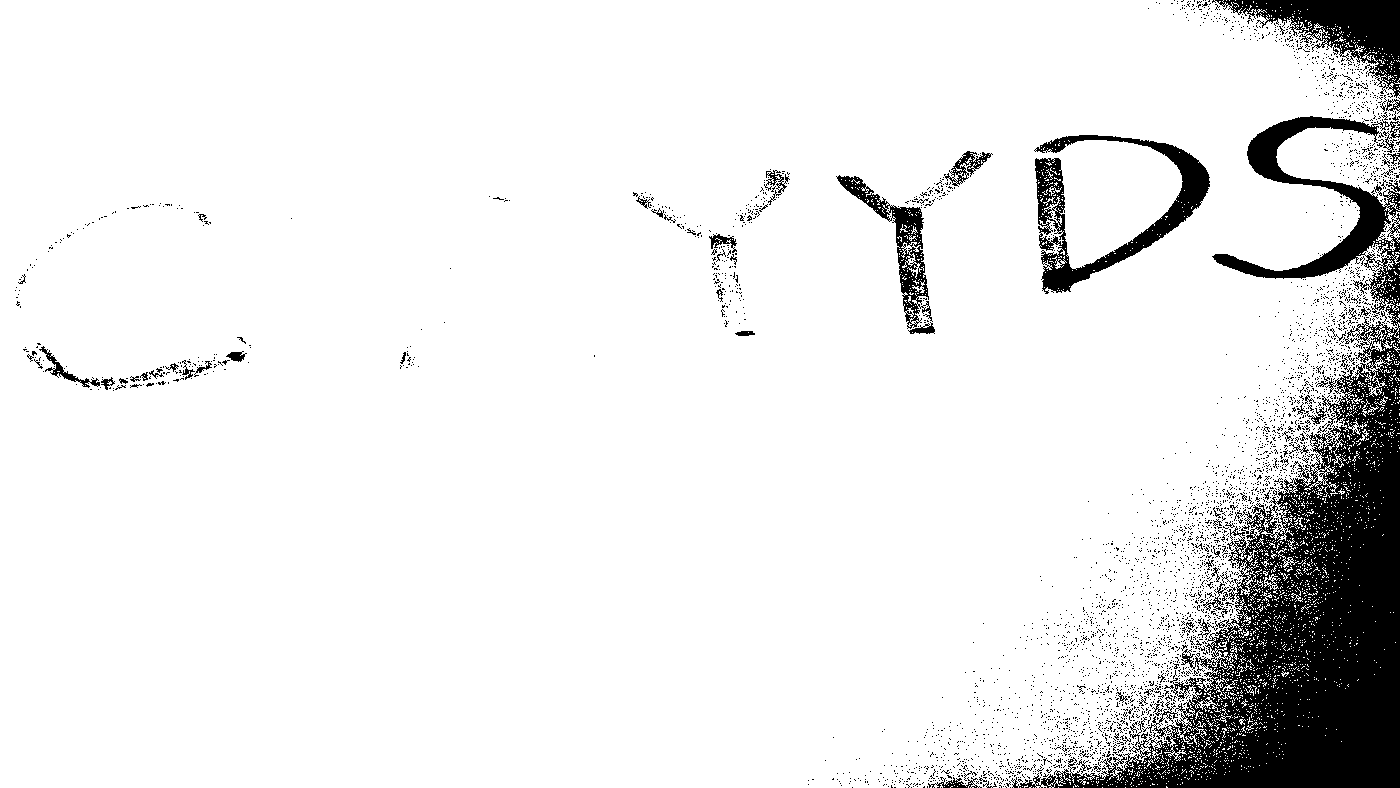
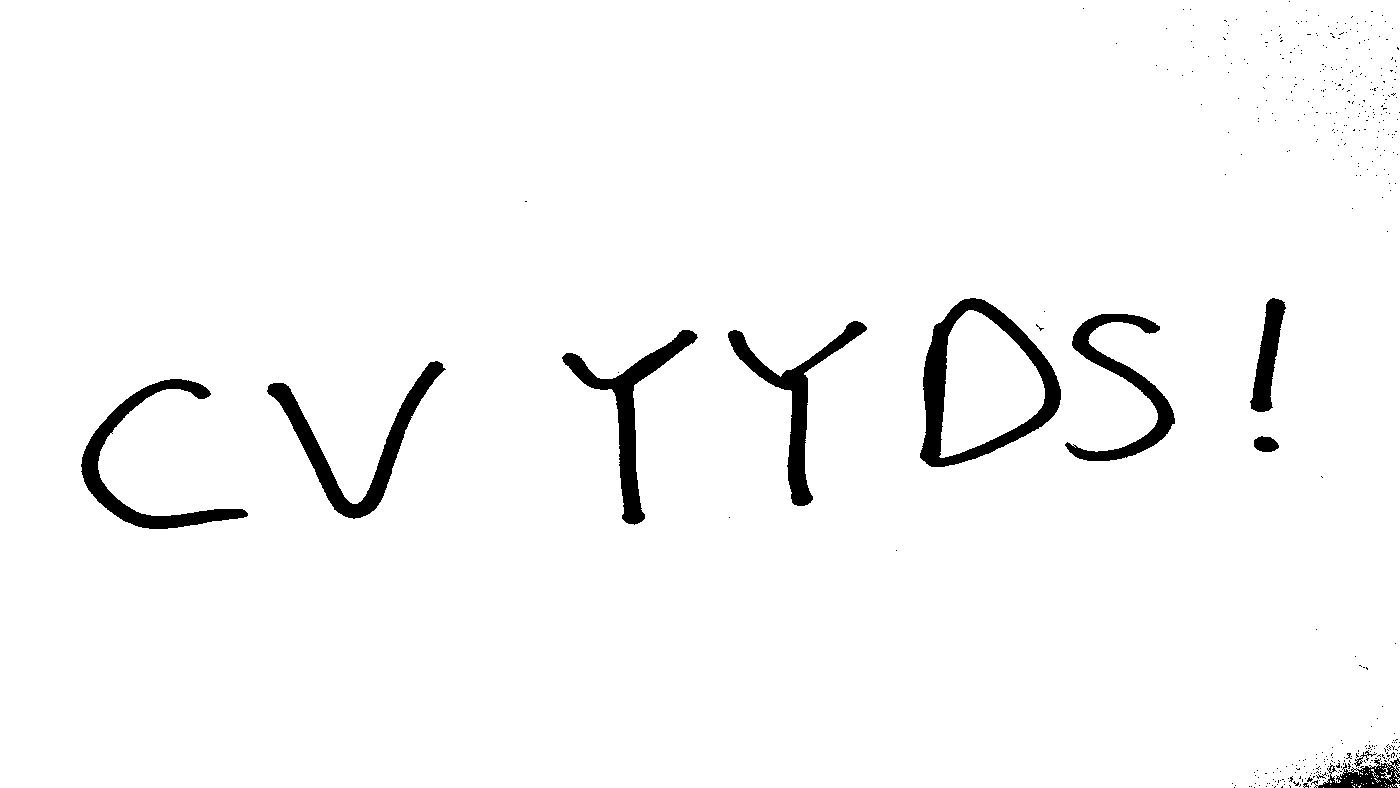
finish all questions in hw1; docs wait to be fill

diff --git a/hw1/chris/Q4.py b/hw1/chris/Q4.py
@@ -1,0 +1,40 @@
+import cv2
+import os
+
+# 将附带彩色图像（I0）的R、G、B通道中某个或某几个通道做与Q3类似的处理
+# 对R通道做处理
+
+img_I0 = cv2.imread('./imgs/I0.jpg')
+img_I2_binary = cv2.imread('./imgs/I2.png', cv2.IMREAD_GRAYSCALE)
+
+# 分割通道
+b_channel, g_channel, r_channel = cv2.split(img_I0)
+
+# 遍历R通道的每一位
+# 创建文件夹
+os.makedirs('./imgs/I0_bit_replace/R', exist_ok=True)
+for i in range(8):
+    # 获取二值图像的当前位
+    bit_i_binary = img_I2_binary & (1 << i)
+    # 将R通道的当前位替换为二值图像的当前位
+    r_channel_new = r_channel | bit_i_binary
+    # 合并
+    img_I0_new = cv2.merge([b_channel, g_channel, r_channel_new])
+    # 保存
+    cv2.imwrite(f'./imgs/I0_bit_replace/R/I0_ChannelR_L{i+1}.jpg', img_I0_new)
+
+# 对G通道做处理
+os.makedirs('./imgs/I0_bit_replace/G', exist_ok=True)
+for i in range(8):
+    bit_i_binary = img_I2_binary & (1 << i)
+    g_channel_new = g_channel | bit_i_binary
+    img_I0_new = cv2.merge([b_channel, g_channel_new, r_channel])
+    cv2.imwrite(f'./imgs/I0_bit_replace/G/I0_ChannelG_L{i+1}.jpg', img_I0_new)
+
+# 对B通道做处理
+os.makedirs('./imgs/I0_bit_replace/B', exist_ok=True)
+for i in range(8):
+    bit_i_binary = img_I2_binary & (1 << i)
+    b_channel_new = b_channel | bit_i_binary
+    img_I0_new = cv2.merge([b_channel_new, g_channel, r_channel])
+    cv2.imwrite(f'./imgs/I0_bit_replace/B/I0_ChannelB_L{i+1}.jpg', img_I0_new)

diff --git a/hw1/chris/Q5.py b/hw1/chris/Q5.py
@@ -1,0 +1,33 @@
+import os
+
+import cv2
+import numpy as np
+
+img = cv2.imread('./imgs/I0.jpg')
+os.makedirs('./imgs/Q5', exist_ok=True)
+
+# 1. 调整亮度
+# 使用convertScaleAbs
+# 亮度增强
+img_bright = cv2.convertScaleAbs(img, alpha=1, beta=100)
+cv2.imwrite('./imgs/Q5/I0_bright.jpg', img_bright)
+
+# 2. 调整对比度
+# 使用convertScaleAbs
+# 对比度增强
+img_contrast = cv2.convertScaleAbs(img, alpha=2, beta=0)
+cv2.imwrite('./imgs/Q5/I0_contrast.jpg', img_contrast)
+
+# 3. 调整饱和度
+# 转到HSV空间，调整S通道
+# 饱和度增强
+img_hsv = cv2.cvtColor(img, cv2.COLOR_BGR2HSV)
+h, s, v = cv2.split(img_hsv)
+# 为了给S通道加50，创建一个与S通道同形状的数组，所有值都是50。
+s_add = np.full(s.shape, 50, dtype=np.uint8)
+# 使用cv2.add来确保加法结果不会超过255的范围
+s = cv2.add(s, s_add)
+img_saturation = cv2.merge([h, s, v])
+img_saturation = cv2.cvtColor(img_saturation, cv2.COLOR_HSV2BGR)
+cv2.imwrite('./imgs/Q5/I0_saturation.jpg', img_saturation)
+

diff --git a/hw1/chris/Q3.py b/hw1/chris/Q3.py
@@ -1,0 +1,25 @@
+import numpy as np
+import cv2
+
+# 这两个都是ndarray
+# 读取灰度图像i1
+img_i1_gray = cv2.imread('./imgs/I1.jpg', cv2.IMREAD_GRAYSCALE)
+# 读取二值图像i2
+img_i2_binary = cv2.imread('./imgs/I2.png', cv2.IMREAD_GRAYSCALE)
+
+assert img_i1_gray.shape == img_i2_binary.shape
+
+# 以ndarray打印i2的数值
+# print(img_i2_binary)
+
+# 一个字节为8位，所以灰度图像一个像素点的值为0-255，二值的话就是0或255
+for i in range(8):
+    # i << 4 = 二进制10000，即16
+    # 取出img_i2_binary每个数值的Li位，从低到高L1 - L8
+    # i = 0对应L1，i = 1对应L2，以此类推
+    bit_i2 = img_i2_binary & (1 << i)
+    # 用该值替换掉img_i2_gray的Li位
+    img_i1_gray_new = img_i1_gray | bit_i2
+
+    # 保存新的灰度图像
+    cv2.imwrite(f'./imgs/I1_bit_replace/I1_gray_L{i+1}.jpg', img_i1_gray_new)

diff --git a/hw1/chris/README.md b/hw1/chris/README.md
@@ -2,14 +2,98 @@
 
 将附带的彩色图像（I0）转为灰度图像（记为I1）。
 
-
+![I1](README/I1-1711770331411-1.jpg)
 
 ## Q2
 
 在白纸上手写“CV YYDS”几个字，手机拍照，转为与I1分辨率相同的二值图像（记为I2）。
 
-
+![I2](README/I2.png)
 
 ## Q3
 
 灰度图像每个像素的灰度值为1个字节（8位），按照从低到高记为L1、L2、…、L8。将I1中每个像素的L1、L2、…、L8分别用I2替换。对结果进行分析。
+
+### 结果
+
+![I1_gray_L1](README/I1_gray_L1.jpg)
+
+![I1_gray_L2](README/I1_gray_L2.jpg)
+
+![I1_gray_L3](README/I1_gray_L3.jpg)
+
+![I1_gray_L4](README/I1_gray_L4.jpg)
+
+![I1_gray_L5](README/I1_gray_L5.jpg)
+
+![I1_gray_L6](README/I1_gray_L6.jpg)
+
+![I1_gray_L7](README/I1_gray_L7.jpg)
+
+![I1_gray_L8](README/I1_gray_L8.jpg)
+
+### 分析
+
+在二值图像中，像素值只有两种可能：0（代表黑色）和255（代表白色）。在二进制表示中，255是11111111，也就是说，从L1到L8，所有的位都是1。
+
+所以，从替换L1到替换L8，也就是0000 0001到1000 0000逐渐嵌入（或运算）到灰度图像中，图像“亮”的程度越来越大，而“CV YYDS!”的部分是保留的，因此图像逐渐出现“CV YYDS!”的字样，而且这个字样的强度在逐渐增强，直到替换L8时达到最强。
+
+基本上4和5的时候初露端倪
+
+## Q4
+
+### 结果
+
+R, G, B分别的L8替换结果
+
+![I0_ChannelR_L8](README/I0_ChannelR_L8.jpg)
+
+![I0_ChannelG_L8](README/I0_ChannelG_L8.jpg)
+
+![I0_ChannelB_L8](README/I0_ChannelB_L8.jpg)
+
+### 分析
+
+看起来是G通道中嵌入的字样比较明显
+
+
+
+## Q5
+
+对附带彩色图像（I0）进行亮度变换、对比度变换、饱和度变换（变换程度自行确定）。对结果进行分析。
+
+### 原始图像
+
+![I0](README/I0.jpg)
+
+### 亮度增加
+
+![I0_bright](README/I0_bright.jpg)
+
+### 对比度增加
+
+![I0_contrast](README/I0_contrast.jpg)
+
+### 饱和度增加
+
+![I0_saturation](README/I0_saturation.jpg)
+
+### 分析
+
+#### **亮度增加**
+
+增加亮度意味着使图像看起来更亮。所有颜色都将向更亮的方向移动，使整个图像变得更明亮。但是过度增加亮度可能会导致图像的亮部细节丢失，因为亮度过高的区域可能会全部变成纯白色。
+
+**实现**：通过在`cv2.convertScaleAbs`函数中设置`alpha=1`（保持对比度不变）和`beta=100`（将100加到图像的每个颜色通道），实现了亮度增加。`convertScaleAbs`确保了最终的像素值被适当地限制在0到255内。
+
+#### **对比度增加**
+
+增加对比度会使图像的暗部更暗，亮部更亮，从而加深图像的整体差异，让图像看起来更有深度和细节。增加对比度通常可以让图像看起来更鲜明，更加吸引人。但是如果对比度增加过多，可能会导致暗部和亮部的细节丢失。
+
+**实现**：通过在`cv2.convertScaleAbs`函数中设置`alpha=2`（加倍原始图像的对比度）和`beta=0`（保持亮度不变），实现了对比度的增加。
+
+#### 饱和度增加
+
+增加饱和度会使图像的颜色看起来更鲜艳、更丰富。色彩将更加深和纯，但是如果饱和度提升过高，颜色可能会看起来不自然，甚至失真。
+
+**实现**：首先，使用`cv2.cvtColor`将图像从BGR颜色空间转换到HSV空间。在HSV空间中，饱和度是由S通道表示的。通过`cv2.add`函数，将S通道的每个像素值增加50（同时利用`cv2.add`自动处理溢出的情况，确保值在0-255之间）。最后，将调整后的HSV图像重新合并，并转换回BGR颜色空间。
